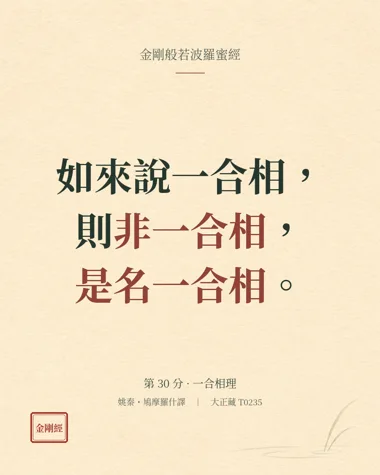
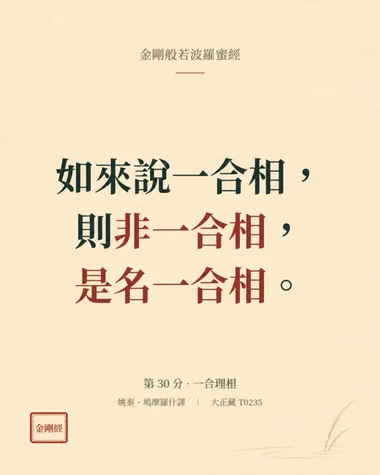
Redraw chapter 30 scripture card

diff --git a/comics.html b/comics.html
@@ -1,4 +1,4 @@
-<!doctype html><html lang="zh-Hant"><head><meta charset="utf-8"><meta name="viewport" content="width=device-width,initial-scale=1,viewport-fit=cover"><meta name="prajna-release" content="1a1c9ef1475171b60f0"><meta name="theme-color" content="#e8e3d8"><title>金剛經漫畫集</title><meta name="description" content="依集數閱讀金剛經漫畫集。"><style>
+<!doctype html><html lang="zh-Hant"><head><meta charset="utf-8"><meta name="viewport" content="width=device-width,initial-scale=1,viewport-fit=cover"><meta name="prajna-release" content="1a1ca0795a344b9107d"><meta name="theme-color" content="#e8e3d8"><title>金剛經漫畫集</title><meta name="description" content="依集數閱讀金剛經漫畫集。"><style>
 :root{font-family:"Noto Sans TC","Microsoft JhengHei",sans-serif;color:#332f2a;background:#e9e4da}*{box-sizing:border-box}body{margin:0}a{color:#854d41;text-underline-offset:.2em}.top{background:#faf8f2;border-bottom:1px solid #d6cec0;padding:.9rem max(1rem,calc((100vw - 1100px)/2));display:flex;justify-content:space-between;gap:1rem}.top a:first-child{text-decoration:none;font-weight:700;color:#39342e}main{max-width:1100px;margin:auto;padding:clamp(1.2rem,4vw,3rem) 1rem 4rem}.eyebrow{color:#9d564b;font-size:.8rem;letter-spacing:.18em;font-weight:700;margin:0 0 .7rem}h1{font-family:"Noto Serif TC",serif;font-size:clamp(2rem,5vw,3.3rem);margin:0}.intro{line-height:1.8;max-width:46em;color:#645c52}.jump{display:flex;flex-wrap:wrap;gap:.5rem;margin:1.5rem 0 2rem}.jump a{background:#fffaf2;border:1px solid #d6cabc;border-radius:999px;padding:.4rem .8rem;text-decoration:none}.episode{background:#faf8f2;border:1px solid #d4cbbe;border-radius:1rem;margin:1rem 0;overflow:hidden}.episode>summary{display:flex;align-items:baseline;gap:.8rem;padding:1rem 1.2rem;cursor:pointer;list-style:none}.episode>summary::-webkit-details-marker{display:none}.episode>summary:before{content:"＋";color:#96584a}.episode[open]>summary:before{content:"−"}.episode-no{font-weight:800;font-size:1.3rem}.episode small{margin-left:auto;color:#806d5e}.pages{display:grid;grid-template-columns:repeat(2,minmax(0,1fr));align-items:start;gap:1rem;padding:0 1rem 1rem}.page{margin:0;background:#fff;border:1px solid #ddd4c7;border-radius:.7rem;overflow:hidden}.page img{display:block;width:100%;height:auto}.page figcaption{display:flex;justify-content:space-between;gap:1rem;padding:.7rem .9rem;font-size:.85rem;line-height:1.4}.page figcaption span{color:#806c5b}.caption-text{margin:0;padding:0 .9rem 1rem;line-height:1.75;color:#5f554b}.note{font-size:.9rem;line-height:1.7;color:#685e53}@media(max-width:650px){.top{padding:.8rem 1rem}.pages{grid-template-columns:1fr}.episode>summary{flex-wrap:wrap}.episode small{margin-left:1.7rem;width:100%}.page figcaption{flex-wrap:wrap}}
 
 .jump button,.controls button{font:inherit;cursor:pointer;border:1px solid #c9b8a9;border-radius:999px;background:#fffaf2;color:#73453c;padding:.55rem 1rem}.jump button[aria-pressed="true"]{background:#9b584d;color:white;border-color:#9b584d}.jump button:focus-visible,.controls button:focus-visible,.zoom:focus-visible{outline:3px solid #966d4c;outline-offset:3px}.controls button:disabled{opacity:.45;cursor:not-allowed}.reader{background:#faf8f2;border:1px solid #d4cbbe;border-radius:1rem;padding:clamp(.8rem,2.5vw,1.5rem);scroll-margin-top:1rem}.reader-head{display:flex;justify-content:space-between;align-items:baseline;gap:.5rem;flex-wrap:wrap}.reader-head h2{font-family:"Noto Serif TC",serif;margin:.2rem 0;font-size:clamp(1.3rem,3vw,2rem)}.reader-head p,.status{color:#76695d;margin:.4rem 0}.reader-figure{margin:1rem auto 0;max-width:864px;background:white;border:1px solid #d9d0c4;border-radius:.5rem;overflow:hidden}.reader-figure img{display:block;width:100%;height:auto}.reader-note{max-width:864px;margin:1rem auto;line-height:1.8;color:#51483f}.reader-note:empty{display:none}.reader-footer{display:flex;align-items:center;justify-content:space-between;gap:1rem;flex-wrap:wrap;max-width:864px;margin:1rem auto 0}.controls{display:flex;gap:.6rem;flex-wrap:wrap}.zoom{display:inline-block;padding:.4rem 0}

diff --git a/index.html b/index.html
@@ -3,7 +3,7 @@
 <head>
 <meta charset="utf-8">
 <meta name="viewport" content="width=device-width, initial-scale=1, viewport-fit=cover">
-<meta name="prajna-release" content="1a1c9ef1475171b60f0">
+<meta name="prajna-release" content="1a1ca0795a344b9107d">
 <meta name="theme-color" content="#e8dcc0">
 <meta name="apple-mobile-web-app-title" content="金剛經">
 <title>金剛經修行工具</title>
@@ -99,9 +99,9 @@
   <div data-first-visit></div>
   <!-- site-updates:start -->
   <details class="appendix" id="site-updates">
-    <summary>最近更新 · <time datetime="2026-11-11T17:27:31+08:00">2026/11/11 17:27</time>（臺灣時間）</summary>
+    <summary>最近更新 · <time datetime="2026-11-11T17:54:17+08:00">2026/11/11 17:54</time>（臺灣時間）</summary>
     <ul class="refs" id="site-update-list">
-      <li><time datetime="2026-11-11T17:27:31+08:00">2026/11/11 17:27</time> · 修正第 30 分分名為「一合理相」，並核對「讀」第 21、25 分用語。</li><li><time datetime="2026-11-11T09:08:18Z">2026/11/11 17:08</time> · 誦本依江味農居士校定本校正經文並補回第十七分漏句；各頁「使用說明」已收在「快速上手」下方，需要時再展開。</li>
+      <li><time datetime="2026-11-11T17:54:17+08:00">2026/11/11 17:54</time> · 重製第 30 分經文圖卡，修正圖片內分名為「一合理相」。</li><li><time datetime="2026-11-11T09:08:18Z">2026/11/11 17:08</time> · 誦本依江味農居士校定本校正經文並補回第十七分漏句；各頁「使用說明」已收在「快速上手」下方，需要時再展開。</li>
       <li><time datetime="2026-11-10T22:30:24Z">2026/11/11 06:30</time> · 布施小卡擴充為 21 張，補充財施的時間與義工、無畏施和生活中的微笑、禮讓、掃地；漫畫頁連結對應當頁重點，並補上 GitHub 下載修改說明與自動更新版本標記。</li>
       <li><time datetime="2026-11-10T13:05:58Z">2026/11/10 21:05</time> · 布施改為自行抽取七張小卡；首頁放大導覽圖示，經文校對移回「讀」。</li>
       <li><time datetime="2026-11-10T12:54:06Z">2026/11/10 20:54</time> · 新增七集《金剛經》漫畫；首頁改以「漫畫與圖卡」「延伸資料」整理入口。</li>

diff --git a/app.js b/app.js
@@ -354,6 +354,12 @@ function renderNotebook(data) {
       element("p",check.aligned_statement,"reading"),element("p",check.limit,"reading"),sourceList(check.source_ids,sources)));
   }
   const {cards:extraCards,scriptureCards = [],wallpapers} = data.gallery_assets;
+  const imageRevision = document.querySelector('meta[name="prajna-release"]').content;
+  const chapter30Card = scriptureCards.find(card => card.title === "第 30 分 · 一合理相");
+  if (chapter30Card) {
+    chapter30Card.path = "./artwork/cards/verse-30-1-full.webp?v=" + imageRevision;
+    chapter30Card.preview = "./artwork/cards/verse-30-1.webp?v=" + imageRevision;
+  }
   const cards = [...extraCards,...originalCards];
   const relatedCards = new Map([...cards,...scriptureCards].map(card => [card.path,card]));
   renderRelatedCards(relatedCards.values());

diff --git a/artwork.html b/artwork.html
@@ -3,7 +3,7 @@
 <head>
 <meta charset="utf-8">
 <meta name="viewport" content="width=device-width, initial-scale=1, viewport-fit=cover">
-<meta name="prajna-release" content="1a1c9ef1475171b60f0">
+<meta name="prajna-release" content="1a1ca0795a344b9107d">
 <meta name="theme-color" content="#e8dcc0">
 <meta name="apple-mobile-web-app-title" content="金剛經">
 <title>圖卡｜金剛經修行工具</title>
@@ -15,7 +15,7 @@
 <script src="./reading-settings.js?v=13" defer></script>
 <script src="./site-update.js?v=6" defer></script>
 <script src="./legacy-links.js?v=3"></script>
-<script src="./app.js?v=33" defer></script>
+<script src="./app.js?v=34" defer></script>
 </head>
 <body>
 <header class="mast" id="page-top" tabindex="-1">

diff --git a/guide.html b/guide.html
@@ -3,7 +3,7 @@
 <head>
 <meta charset="utf-8">
 <meta name="viewport" content="width=device-width, initial-scale=1, viewport-fit=cover">
-<meta name="prajna-release" content="1a1c9ef1475171b60f0">
+<meta name="prajna-release" content="1a1ca0795a344b9107d">
 <meta name="theme-color" content="#e8dcc0">
 <meta name="apple-mobile-web-app-title" content="金剛經">
 <title>使用說明｜金剛經修行工具</title>

diff --git a/journal.html b/journal.html
@@ -3,7 +3,7 @@
 <head>
 <meta charset="utf-8">
 <meta name="viewport" content="width=device-width, initial-scale=1, viewport-fit=cover">
-<meta name="prajna-release" content="1a1c9ef1475171b60f0">
+<meta name="prajna-release" content="1a1ca0795a344b9107d">
 <meta name="theme-color" content="#e8dcc0">
 <meta name="apple-mobile-web-app-title" content="金剛經">
 <title>持行記錄｜金剛經修行工具</title>

diff --git a/references.html b/references.html
@@ -3,7 +3,7 @@
 <head>
 <meta charset="utf-8">
 <meta name="viewport" content="width=device-width, initial-scale=1, viewport-fit=cover">
-<meta name="prajna-release" content="1a1c9ef1475171b60f0">
+<meta name="prajna-release" content="1a1ca0795a344b9107d">
 <meta name="theme-color" content="#e8dcc0">
 <meta name="apple-mobile-web-app-title" content="金剛經">
 <title>參考資料｜金剛經修行工具</title>

diff --git a/giving.html b/giving.html
@@ -3,7 +3,7 @@
 <head>
 <meta charset="utf-8">
 <meta name="viewport" content="width=device-width, initial-scale=1, viewport-fit=cover">
-<meta name="prajna-release" content="1a1c9ef1475171b60f0">
+<meta name="prajna-release" content="1a1ca0795a344b9107d">
 <meta name="theme-color" content="#e8dcc0">
 <meta name="apple-mobile-web-app-title" content="金剛經">
 <title>布施｜金剛經修行工具</title>

diff --git a/wallpapers.html b/wallpapers.html
@@ -3,7 +3,7 @@
 <head>
 <meta charset="utf-8">
 <meta name="viewport" content="width=device-width, initial-scale=1, viewport-fit=cover">
-<meta name="prajna-release" content="1a1c9ef1475171b60f0">
+<meta name="prajna-release" content="1a1ca0795a344b9107d">
 <meta name="theme-color" content="#e8dcc0">
 <meta name="apple-mobile-web-app-title" content="金剛經">
 <title>桌布｜金剛經修行工具</title>

diff --git a/contents.html b/contents.html
@@ -3,7 +3,7 @@
 <head>
 <meta charset="utf-8">
 <meta name="viewport" content="width=device-width, initial-scale=1, viewport-fit=cover">
-<meta name="prajna-release" content="1a1c9ef1475171b60f0">
+<meta name="prajna-release" content="1a1ca0795a344b9107d">
 <meta name="theme-color" content="#e8dcc0">
 <meta name="apple-mobile-web-app-title" content="金剛經">
 <title>目｜金剛經修行工具</title>

diff --git a/kepan.html b/kepan.html
@@ -3,7 +3,7 @@
 <head>
 <meta charset="utf-8">
 <meta name="viewport" content="width=device-width, initial-scale=1, viewport-fit=cover">
-<meta name="prajna-release" content="1a1c9ef1475171b60f0">
+<meta name="prajna-release" content="1a1ca0795a344b9107d">
 <meta name="theme-color" content="#e8dcc0">
 <title>讀｜金剛經修行工具</title>
 <link rel="icon" href="./icons/prajna-192.png?v=3">

diff --git a/recitation.html b/recitation.html
@@ -3,7 +3,7 @@
 <head>
 <meta charset="utf-8">
 <meta name="viewport" content="width=device-width, initial-scale=1, viewport-fit=cover">
-<meta name="prajna-release" content="1a1c9ef1475171b60f0">
+<meta name="prajna-release" content="1a1ca0795a344b9107d">
 <meta name="theme-color" content="#e8dcc0">
 <title>誦｜金剛經修行工具</title>
 <link rel="icon" href="./icons/prajna-192.png?v=3">
